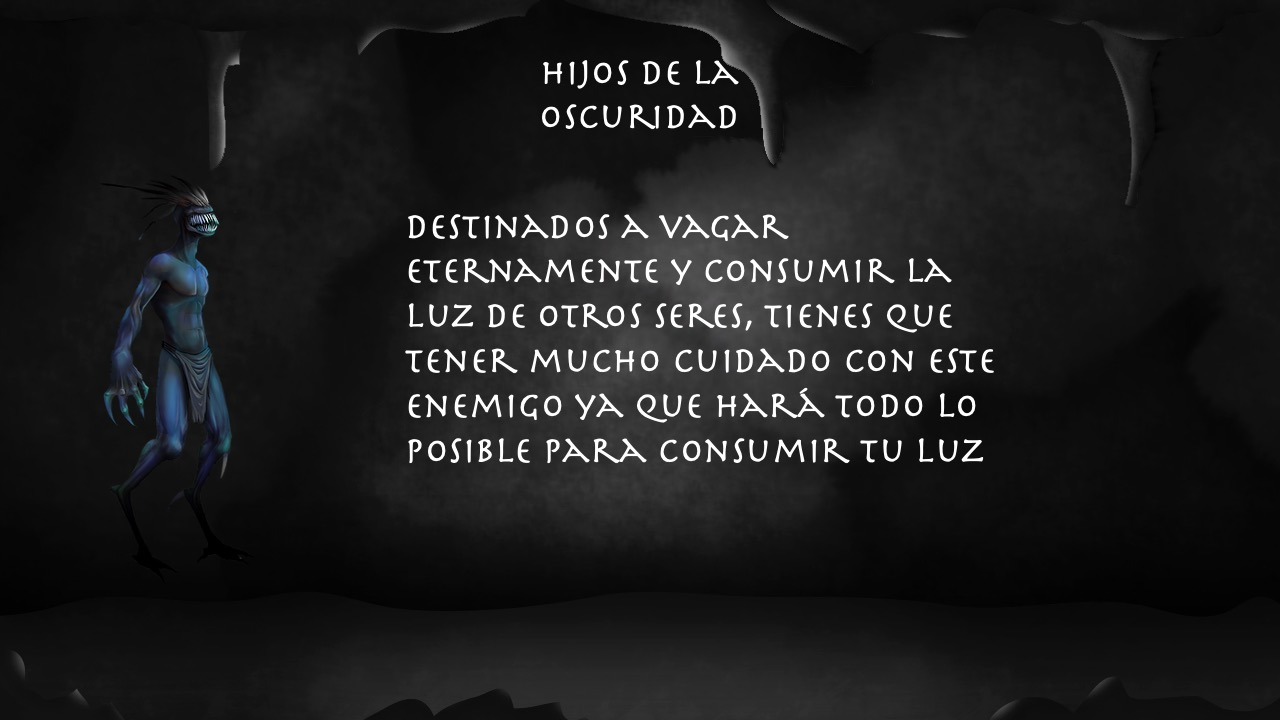
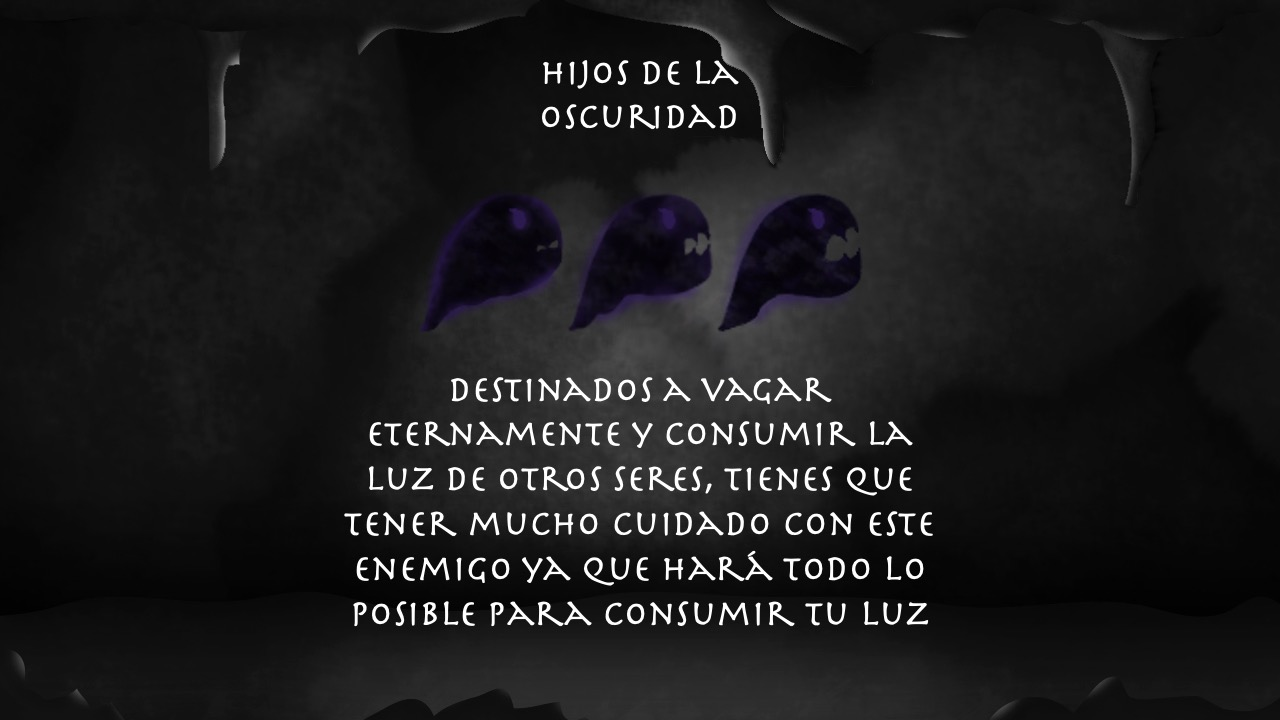
Pequeñas correciones pantallas Ayuda y Creditos

Changed region(s): [[0.25, 0.4889, 0.7812, 0.8861], [0.3125, 0.275, 0.75, 0.4583], [0.0625, 0.275, 0.1875, 0.6722]]

diff --git a/core/src/mx/xul/game/JuegoGS.java b/core/src/mx/xul/game/JuegoGS.java
@@ -9,6 +9,12 @@ import com.badlogic.gdx.Gdx;
 import com.badlogic.gdx.InputProcessor;
 import com.badlogic.gdx.graphics.Texture;
 import com.badlogic.gdx.math.Vector3;
+import com.badlogic.gdx.scenes.scene2d.InputEvent;
+import com.badlogic.gdx.scenes.scene2d.Stage;
+import com.badlogic.gdx.scenes.scene2d.ui.Button;
+import com.badlogic.gdx.scenes.scene2d.utils.ClickListener;
+import com.badlogic.gdx.scenes.scene2d.utils.TextureRegionDrawable;
+import com.badlogic.gdx.utils.Align;
 import com.badlogic.gdx.utils.Array;
 import com.badlogic.gdx.utils.TimeUtils;
 
@@ -82,9 +88,29 @@ public class JuegoGS extends Pantalla {
         startTimeOscuridad = TimeUtils.nanoTime();
         crearGemas();
 
+        Button btnRegresar = crearBoton("Menu/buttonback.png", "Menu/clickback.png");
+        btnRegresar.setPosition(160,ALTO-80, Align.center);
+        btnRegresar.addListener(new ClickListener(){
+            @Override
+            public void clicked(InputEvent event, float x, float y) {
+                // Cambiar de pantalla a Juego
+                juego.setScreen(new PantallaNosotros(juego));
+            }
+        });
+
+
         //Ahora la misma pantalla RECIBE y PROCESA los eventos
         Gdx.input.setInputProcessor( new ProcesadorEntrada());
+    }
 
+    private Button crearBoton(String archivo, String archivoclick) {
+        Texture texturaBoton=new Texture(archivo);
+        TextureRegionDrawable trdBtnRunner=new TextureRegionDrawable(texturaBoton);
+
+        Texture texturaClick=new Texture(archivoclick);
+        TextureRegionDrawable trdBtnClick=new TextureRegionDrawable(texturaClick);
+
+        return new Button(trdBtnRunner,trdBtnClick);
     }
 
     private void crearPersonajes() {
@@ -165,11 +191,7 @@ public class JuegoGS extends Pantalla {
         for (Gema gema:arrGemas) { // Automaticamente visita cada objeto del arreglo
             gema.render(batch);
         }
-
-
-
         batch.end();
-
     }
 
     private void moverOscuridad(float delta, EstadoOscuridad estado){

diff --git a/core/src/mx/xul/game/PantallaNosotros.java b/core/src/mx/xul/game/PantallaNosotros.java
@@ -9,7 +9,7 @@ import com.badlogic.gdx.scenes.scene2d.ui.Button;
 import com.badlogic.gdx.scenes.scene2d.utils.ClickListener;
 import com.badlogic.gdx.scenes.scene2d.utils.TextureRegionDrawable;
 import com.badlogic.gdx.utils.Align;
-import org.graalvm.compiler.core.common.type.ArithmeticOpTable;
+//import org.graalvm.compiler.core.common.type.ArithmeticOpTable;
 
 import java.security.PrivateKey;
 
@@ -180,28 +180,28 @@ public class PantallaNosotros extends Pantalla {
         switch (cristalColor) {
             case 0:
                 cristalW.animationRender(batch, Tiempo);
-                batch.draw(texturaAndrea,ANCHO*3/2-100,0);
+                batch.draw(texturaAndrea,ANCHO*3/2-200,ALTO/2-400);
                 break;
             case 1:
                 cristalR.animationRender(batch, Tiempo);
-                batch.draw(texturaCarlos,ANCHO*3/2-100,0);
+                batch.draw(texturaCarlos,ANCHO*3/2-200,ALTO/2-400);
                 break;
             case 2:
                 cristalY.animationRender(batch, Tiempo);
-                batch.draw(texturaDavid,ANCHO*3/2-100,0);
+                batch.draw(texturaDavid,ANCHO*3/2-200,ALTO/2-400);
                 break;
             case 3:
                 cristalG.animationRender(batch, Tiempo);
-                batch.draw(texturaRicardo,ANCHO*3/2-100,0);
+                batch.draw(texturaRicardo,ANCHO*3/2-200,ALTO/2-400);
                 break;
             case 4:
                 cristalC.animationRender(batch, Tiempo);
-                batch.draw(texturaEduardo,ANCHO*3/2-100,0);
+                batch.draw(texturaEduardo,ANCHO*3/2-200,ALTO/2-400);
                 break;
             case 5:
                 cristalB.animationRender(batch, Tiempo);
                 break;
-            default:
+            default :
                 cristalW.animationRender(batch, Tiempo);
                 break;
         }

diff --git a/core/src/mx/xul/game/PantallaJuego.java b/core/src/mx/xul/game/PantallaJuego.java
@@ -13,7 +13,7 @@ import com.badlogic.gdx.scenes.scene2d.utils.TextureRegionDrawable;
 import com.badlogic.gdx.utils.Align;
 import com.badlogic.gdx.utils.Array;
 
-import sun.security.util.AnchorCertificates;
+//import sun.security.util.AnchorCertificates;
 
 public class PantallaJuego extends Pantalla {
     private Texture texturafondo;
